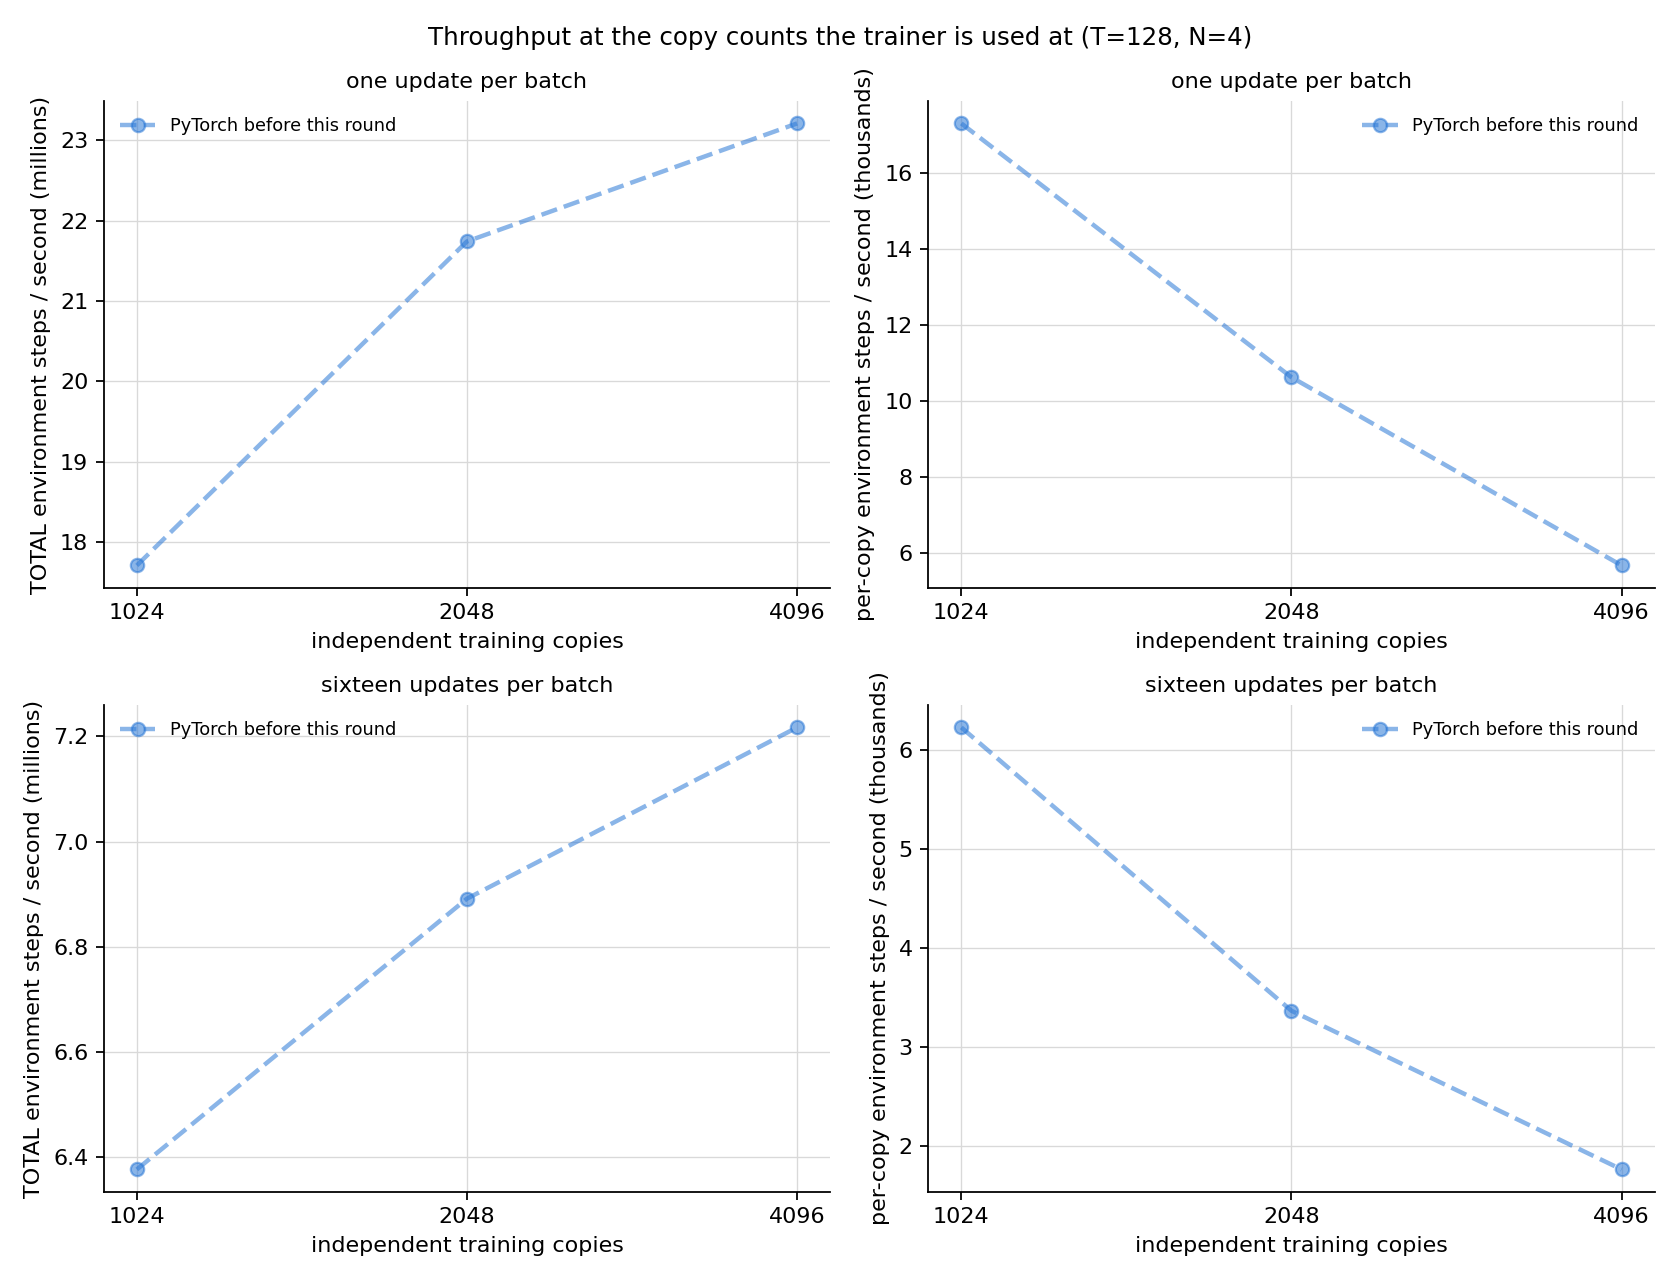
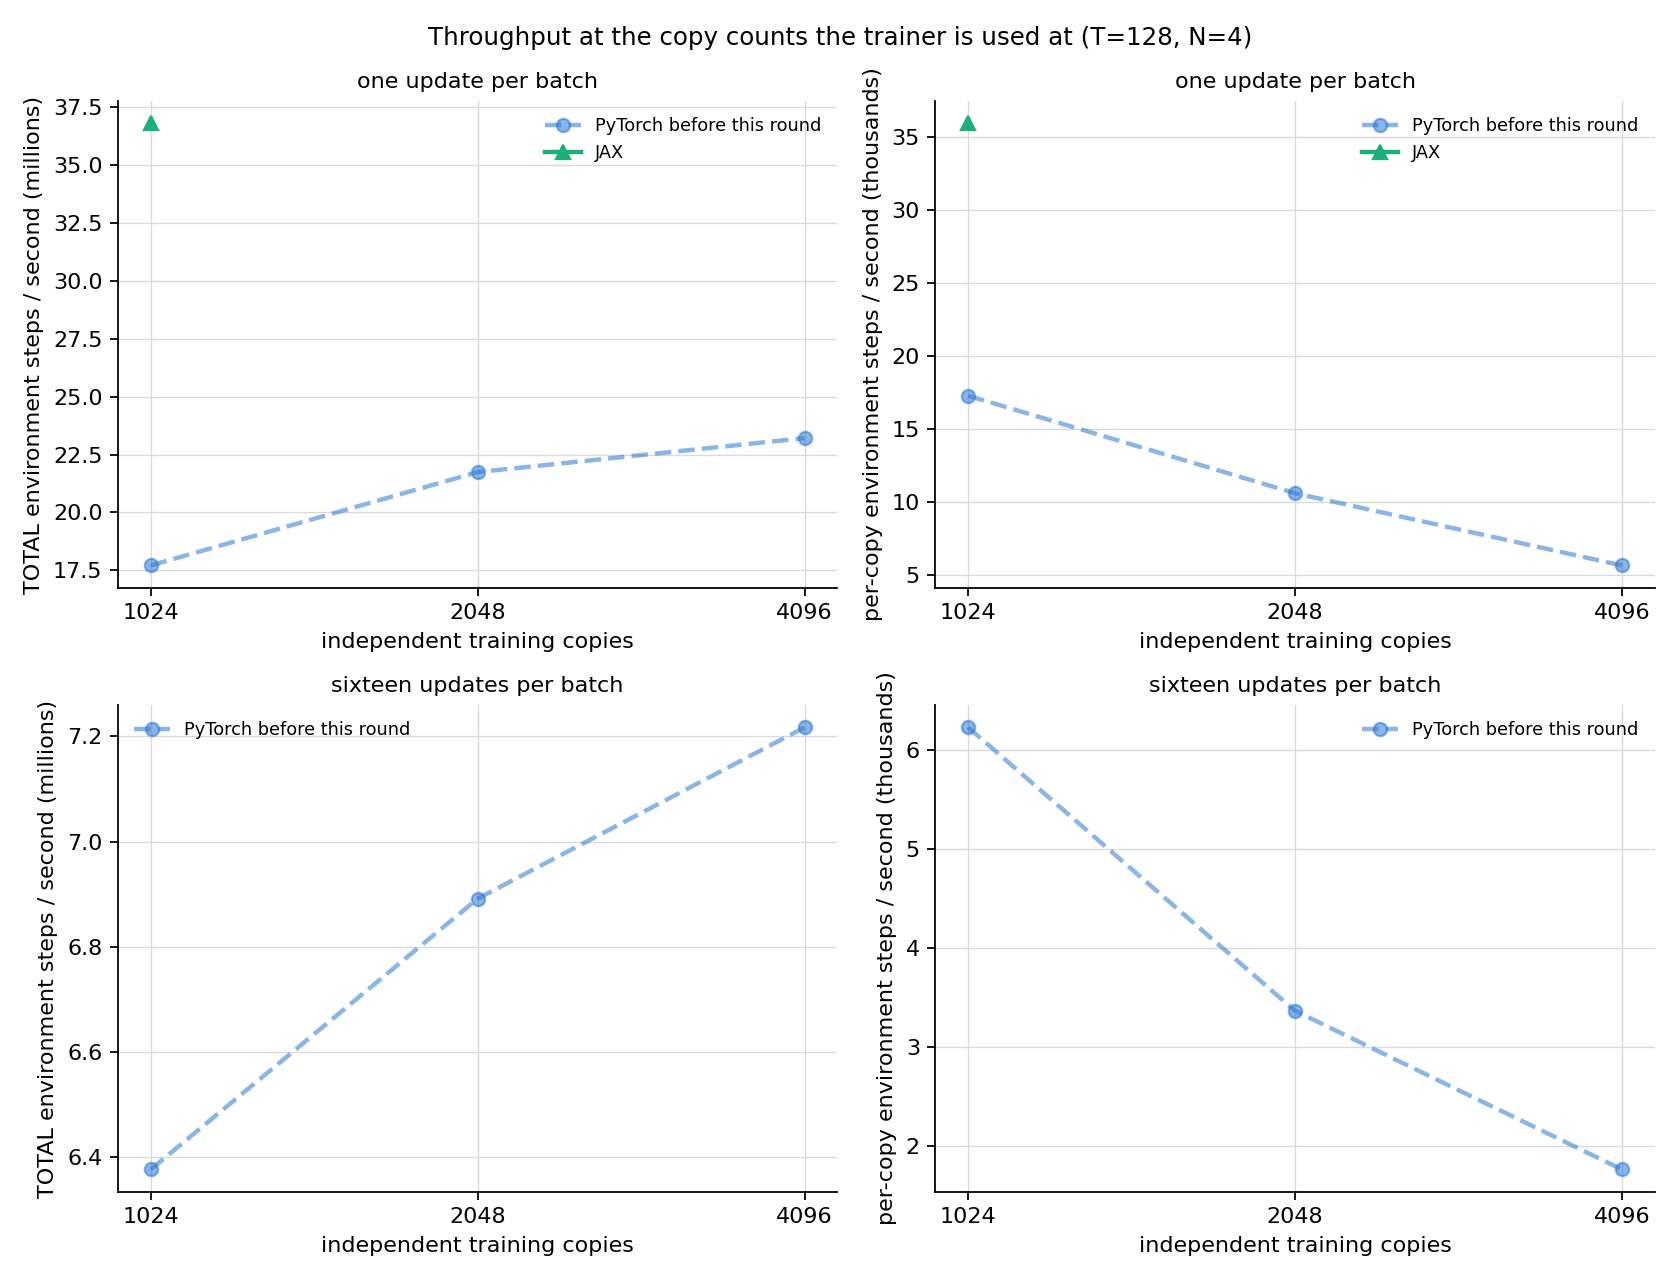
report: the ideas costed and not taken at these copy counts

diff --git a/09_parallelization/report/2026-08-15-pointmaze-gpu-parallelization/code/make_report.py b/09_parallelization/report/2026-08-15-pointmaze-gpu-parallelization/code/make_report.py
@@ -1854,6 +1854,31 @@ that the spread between two runs of the same side gives the noise floor.
                + throughput_table([("PyTorch before", small["before A"]),
                                    ("PyTorch after", small["after A"])],
                                   "full_batch", [8, 32, 128, 512]) + "\n\n")
+    md += """### What was considered and not done, with the arithmetic that decided it
+
+Three further ideas were costed against the byte counts above and rejected without being built.
+Recording them is the point: two of them look obviously right until the bytes are counted.
+
+1. **Recompute the frozen RND target's features in every update step instead of storing them.**
+   This is what the JAX trainer does, and at these sizes it looks like the better trade, because
+   storing them spends memory traffic to save arithmetic and memory traffic is the constraint.
+   Counted per copy per iteration, storing costs 0.26 megabytes to write the features, 2.1 to
+   permute them once per epoch and 1.0 to read them across the sixteen steps: about 3.4 in total.
+   Recomputing stores nothing but writes and reads a 256-wide intermediate in every one of the
+   sixteen steps, about 6.4 megabytes, plus the target's own weights sixteen times. Storing wins
+   by nearly a factor of two.
+2. **Process the copies in groups small enough that a group's parameters, moments and gradients
+   stay in the 50-megabyte cache across all sixteen update steps.** That would remove fifteen
+   sixteenths of the parameter traffic, which is about a third of an iteration — by far the
+   largest remaining saving. A copy's working set is about 1.65 megabytes, so a group that fits
+   the cache holds about thirty copies, and a program with thirty pieces of work cannot fill the
+   card's 132 processing blocks. The two requirements cannot both be met at this network size.
+3. **Hold the optimiser's two moments in a narrower number format.** It removes two of the nine
+   passes the optimiser makes, about 5 percent of an update step. It changes what the trainer
+   computes, so it belongs in a round whose rule permits that, with its own equivalence gate,
+   rather than in this one.
+
+"""
     return md
 
 

diff --git a/09_parallelization/report/2026-08-15-pointmaze-gpu-parallelization/report.md b/09_parallelization/report/2026-08-15-pointmaze-gpu-parallelization/report.md
@@ -38,7 +38,7 @@ what each round changed, then the training campaign and the sweep.
 | [Which implementation to use](#which-implementation-to-use) | 2026-08-15 15:46 PT | 2026-08-15 15:57 PT |
 | [Feature parity between the two trainers](#feature-parity-between-the-two-trainers) | 2026-08-15 15:46 PT | 2026-08-15 15:46 PT |
 | [Round four — closing the distance between the two trainers](#round-four-closing-the-distance-between-the-two-trainers) | 2026-08-15 15:57 PT | 2026-08-15 15:57 PT |
-| [Training a thousand to four thousand copies at once](#training-a-thousand-to-four-thousand-copies-at-once) | 2026-08-15 17:02 PT | 2026-08-15 17:15 PT |
+| [Training a thousand to four thousand copies at once](#training-a-thousand-to-four-thousand-copies-at-once) | 2026-08-15 17:02 PT | 2026-08-15 17:16 PT |
 
 *Times are when a section's text first appeared in this document and when it last changed, taken from the document's version history. A section whose numbers were re-measured shows a later change time. All times are Pacific (PT); the machines that produced them run on Eastern Time and the values are converted for display.*
 
@@ -855,6 +855,7 @@ same trainer with this round's changes; the JAX trainer is unchanged by this rou
 | implementation | copies | milliseconds<br>per iteration | total steps<br>per second<br>(millions) | steps per second<br>per copy<br>(thousands) | hours per million<br>steps per copy | peak<br>memory (GB) |
 |---|---|---|---|---|---|---|
 | PyTorch before | 1024 | 29.6 | 17.71 | 17.3 | 0.016 | 3.8 |
+| JAX | 1024 | 14.2 | **36.81** | 35.9 | 0.008 | 3.4 |
 | PyTorch before | 2048 | 48.2 | 21.74 | 10.6 | 0.026 | 7.5 |
 | PyTorch before | 4096 | 90.4 | 23.21 | 5.7 | 0.049 | 14.8 |
 
